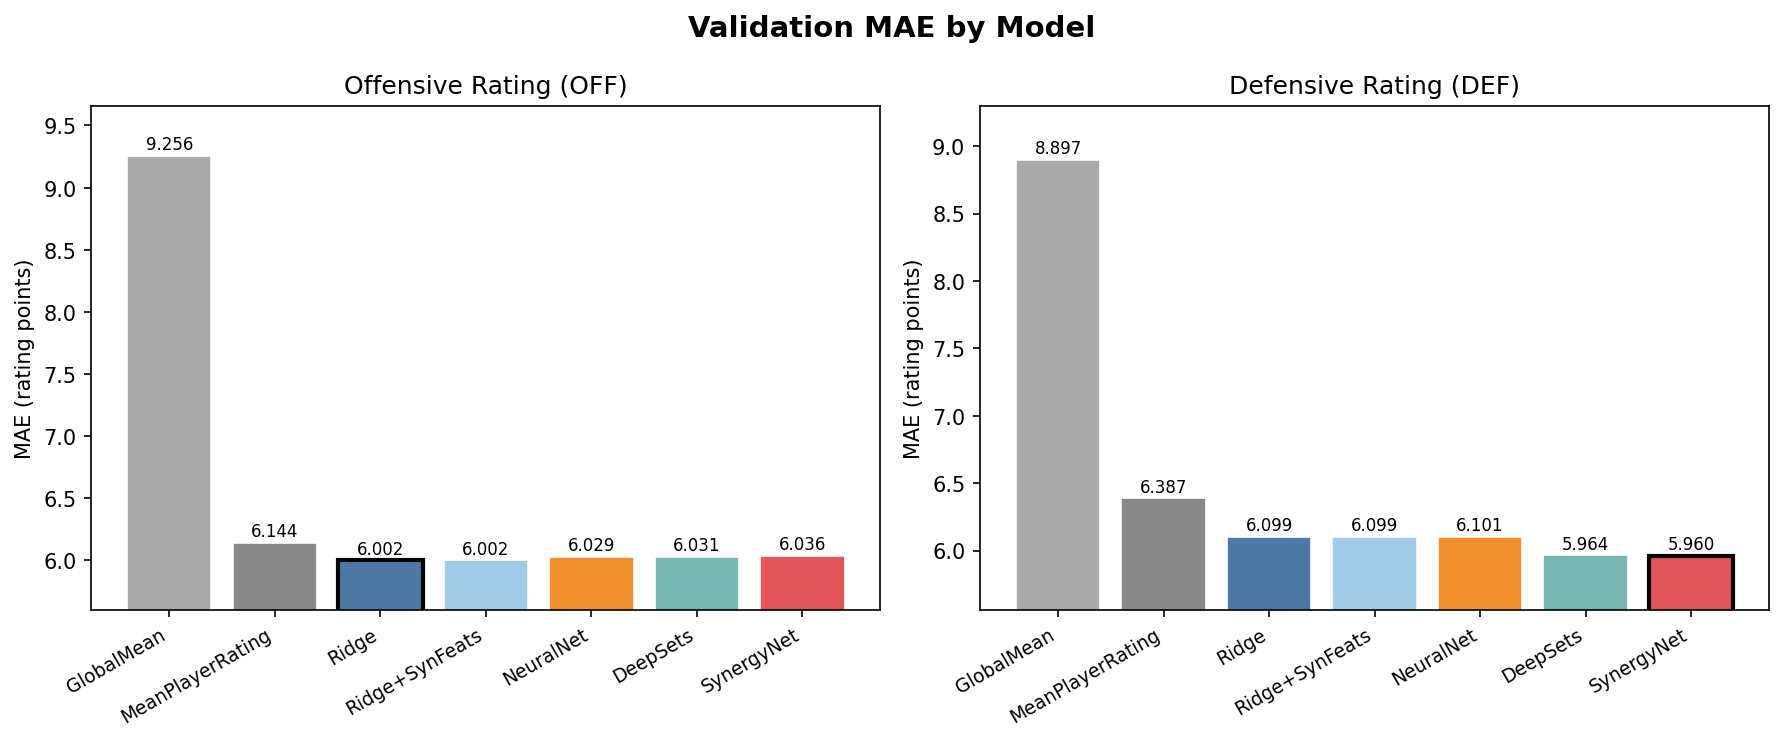
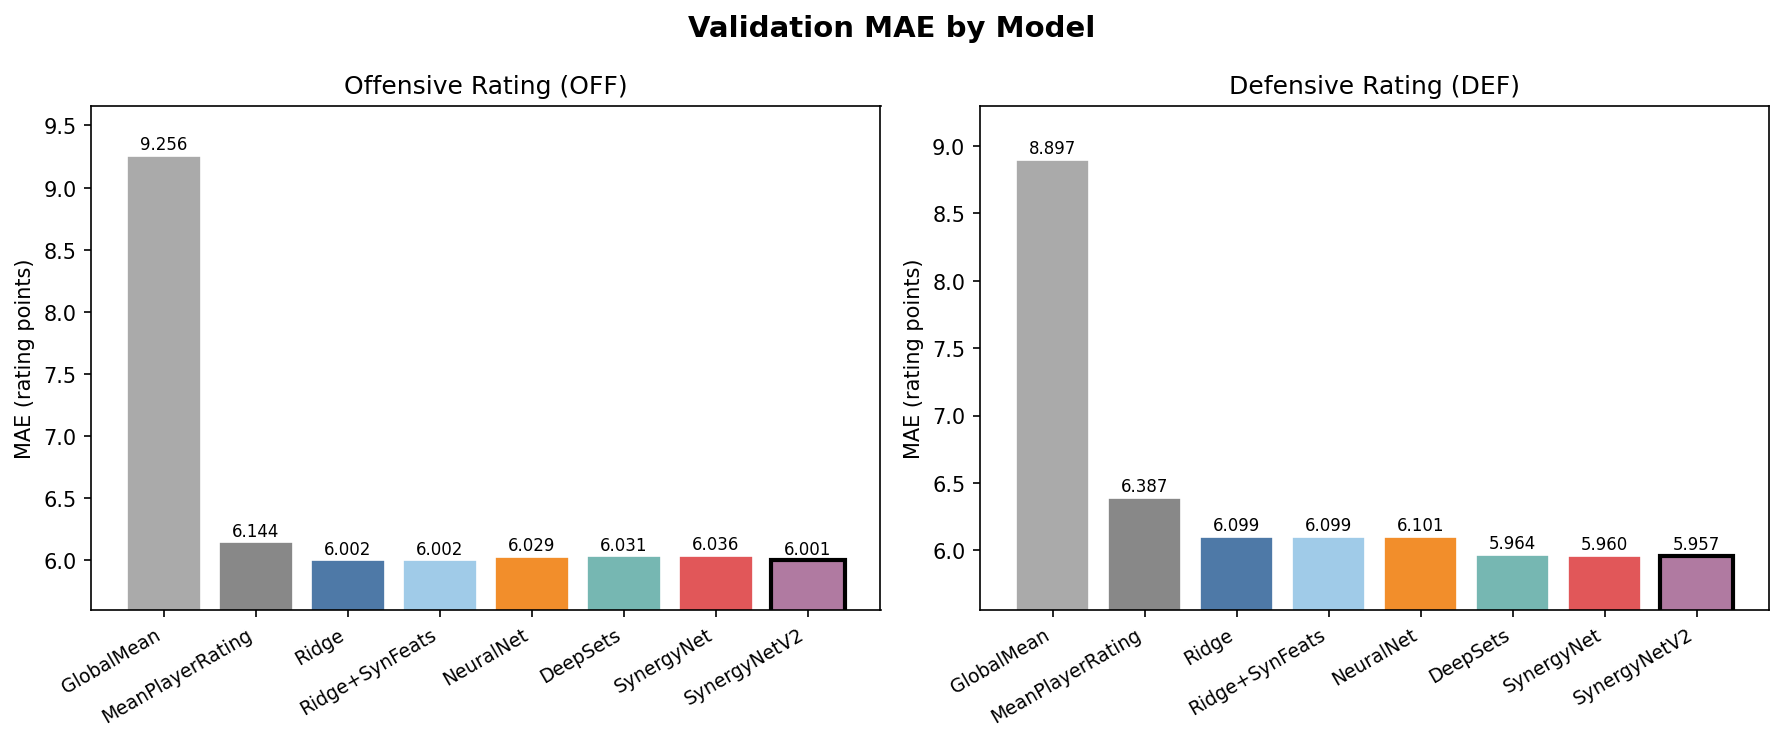
fixed graphs

diff --git a/analyze_results.py b/analyze_results.py
@@ -35,7 +35,7 @@ SYN_HIST_DEF = Path('artifacts/syn_history_def.csv')
 df = pd.read_csv(RESULTS)
 
 MODEL_ORDER = ['GlobalMean', 'MeanPlayerRating', 'Ridge', 'Ridge+SynFeats',
-               'NeuralNet', 'DeepSets', 'SynergyNet']
+               'NeuralNet', 'DeepSets', 'SynergyNet', 'SynergyNetV2']
 COLORS = {
     'GlobalMean':      '#aaaaaa',
     'MeanPlayerRating':'#888888',
@@ -44,6 +44,7 @@ COLORS = {
     'NeuralNet':       '#f28e2b',
     'DeepSets':        '#76b7b2',
     'SynergyNet':      '#e15759',
+    'SynergyNetV2':    '#b07aa1',
 }
 
 val = df[df['split'] == 'val'].copy()
@@ -258,7 +259,7 @@ print()
 print('KEY DELTAS (vs. Ridge baseline, val set):')
 ridge_off = val[(val['model']=='Ridge') & (val['target']=='OFF_RATING')]['MAE'].values[0]
 ridge_def = val[(val['model']=='Ridge') & (val['target']=='DEF_RATING')]['MAE'].values[0]
-for model in ['Ridge+SynFeats', 'NeuralNet', 'DeepSets', 'SynergyNet']:
+for model in ['Ridge+SynFeats', 'NeuralNet', 'DeepSets', 'SynergyNet', 'SynergyNetV2']:
     sub = val[val['model'] == model]
     if sub.empty: continue
     off = sub[sub['target']=='OFF_RATING']['MAE'].values

diff --git a/ATTRIBUTION.md b/ATTRIBUTION.md
@@ -19,7 +19,8 @@ This project was built with substantial assistance from **Claude Code (Anthropic
 
 - **`collect_data.py`** — Initial structure generated with Claude Code and Claude Code also helped generate API call syntax.
 - **`clean_data.py`, `build_features.py`, `preprocess.py`** — Scaffolding generated with Claude Code‚ I then implemented deisgn choices.
-- **`train_synergy.py`** — Claude Code implemented the MultiheadAttention block, residual connections, LayerNorm, and training loop. 
+- **`train_synergy.py`** — Claude Code implemented the MultiheadAttention block, residual connections, LayerNorm, and training loop.
+- **`train_synergy_v2.py`** — Claude Code scaffolded the two-layer Transformer encoder and role-feature additions (spacing_score, creation_score); I designed the creator × spacer interaction hypothesis and chose what features to add.
 - **`app.py`** — Initial app structure generated with Claude Code. UI designed by Claude Code with several iterations and changes based on my input.
 - **`predict.py`** — CLI tool generated with Claude Code.
 - **`analyze_results.py`** — Figure generation code scaffolded with Claude Code.
